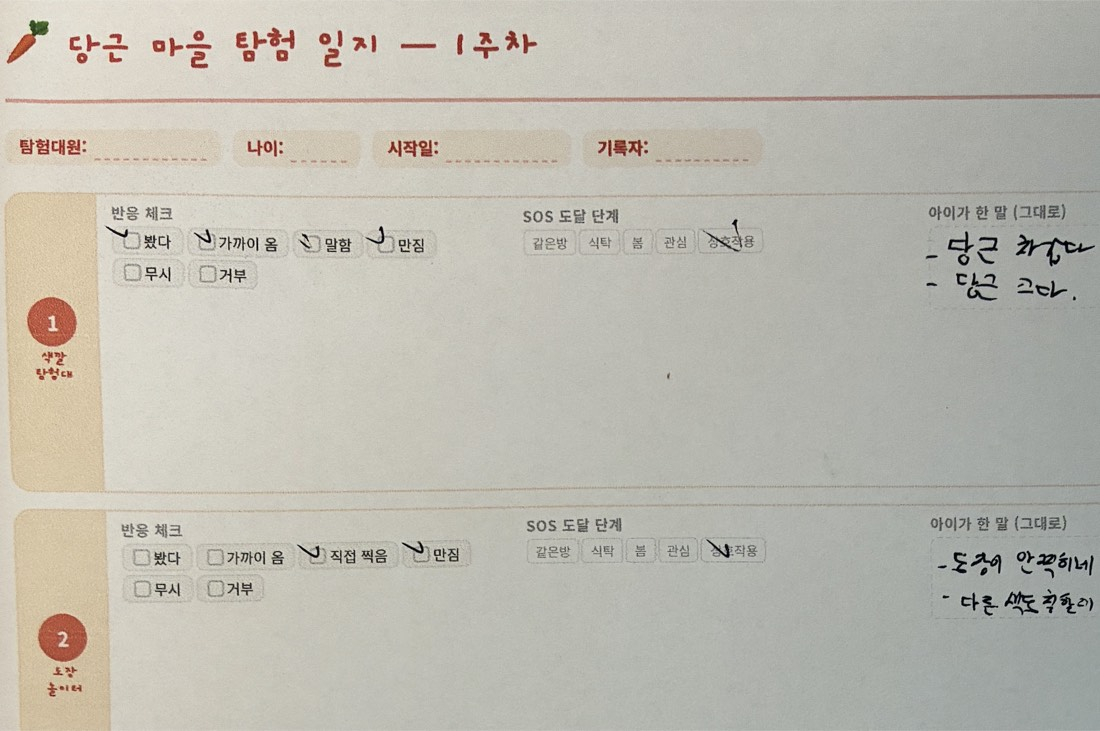
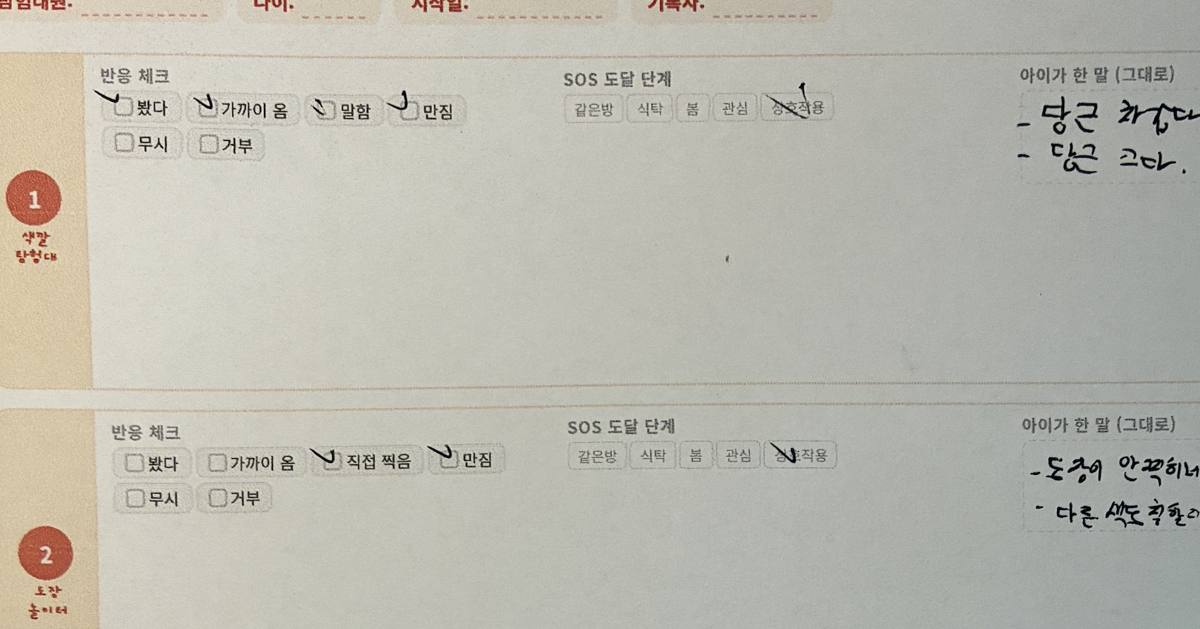
투자: 시드 피치덱 — 슬라이드3 레이아웃/4 출처/6 사진 조정
- 슬라이드3: 문제 스샷 왼쪽 크게(상단부터), 텍스트 우측
- 슬라이드4: 미신 카드에 'QR 퀴즈 평균 50점 이유' + '네이버 300만 카페 발췌' 출처
- 슬라이드6: 2·3 사진 스왑, 감각놀이 하단(당근) 노출, 기록지 여백 크롭+contain으로 손글씨까지 표시

diff --git a/pitch-seed.html b/pitch-seed.html
@@ -113,18 +113,16 @@
   </div></div></section>
 
   <!-- 3 정답률(퀴즈) -->
-  <section class="slide"><div class="frame"><div class="pad">
-    <div class="label">Quiz</div>
-    <h2>정답률 10% 문제</h2>
-    <div style="display:flex;gap:5cqw;margin-top:1.6cqw;align-items:center">
-      <div style="flex:1">
-        <div class="big" style="font-size:2.9cqw;line-height:1.5">이 문제의 정답은<br>몇 번일까요?</div>
-        <div style="margin-top:2.6cqw;display:flex;align-items:center;gap:1.6cqw">
-          <img src="pitch-img/qr.png" style="width:9cqw;height:9cqw;border-radius:8px">
-          <div style="font-size:1.9cqw;font-weight:700;color:var(--navy)">정답은 <b style="color:var(--orange-d)">QR</b>에서<br>확인 가능합니다</div>
-        </div>
+  <section class="slide"><div class="frame"><div class="pad" style="flex-direction:row;align-items:center;gap:5cqw;padding:3.4cqw 6cqw">
+    <img class="photo" src="pitch-img/quiz.jpg" style="height:47cqw;width:auto;max-width:32cqw;object-fit:contain;background:#fff;flex:0 0 auto">
+    <div style="flex:1">
+      <div class="label">Quiz</div>
+      <h2>정답률 10% 문제</h2>
+      <div class="big" style="font-size:3.1cqw;line-height:1.5;margin-top:2.4cqw">이 문제의 정답은<br>몇 번일까요?</div>
+      <div style="margin-top:3cqw;display:flex;align-items:center;gap:1.6cqw">
+        <img src="pitch-img/qr.png" style="width:10cqw;height:10cqw;border-radius:8px">
+        <div style="font-size:2.05cqw;font-weight:700;color:var(--navy)">정답은 <b style="color:var(--orange-d)">QR</b>에서<br>확인 가능합니다</div>
       </div>
-      <img class="photo" src="pitch-img/quiz.jpg" style="width:27cqw;height:40cqw;object-fit:contain;background:#fff">
     </div>
     <div class="bm">밀프레드</div><div class="pg">03</div>
   </div></div></section>
@@ -135,7 +133,7 @@
     <h2>편식을 풀기 어려운 이유</h2>
     <div style="display:flex;gap:2.4cqw;margin-top:1cqw">
       <div style="flex:1.15">
-        <div class="card" style="margin-bottom:1.4cqw"><div class="ct">① 잘못된 미신</div><p>맘카페에 퍼진 '몰래 갈아 먹이기', '한 입만 더' 같은 역효과 방법이 지식처럼 통용됩니다.</p></div>
+        <div class="card" style="margin-bottom:1.4cqw"><div class="ct">① 잘못된 미신</div><p>맘카페에 퍼진 '몰래 갈아 먹이기', '한 입만 더' 같은 역효과 방법이 지식처럼 통용됩니다. <b style="color:var(--orange-d)">앞의 QR 퀴즈 평균 점수가 50점인 이유</b>입니다.</p></div>
         <div class="card"><div class="ct">② 개인화 처방의 부재</div><p>아이마다 감각·기질·식사 환경이 달라 <b style="color:var(--orange-d)">아이별 맞춤 처방</b>이 필요합니다. 일반론으론 안 풀립니다.</p></div>
       </div>
       <div style="flex:1;background:#f6f8fb;border-radius:12px;padding:1.8cqw 2cqw">
@@ -143,6 +141,7 @@
         <div style="font-size:1.8cqw;font-weight:800;color:var(--navy);line-height:1.32;margin-bottom:1.1cqw">"24개월인데.. 진짜 너무 반찬을 안 먹어요 ㅠㅠ"</div>
         <div class="qcard" style="background:#fff"><div class="qn">👤 다른 부모의 답</div><div class="qt" style="font-weight:600;font-size:1.7cqw">"솥밥하세요! 섞여 있으니 어찌어찌 먹더라고요 — 냉털하는 느낌으로"</div></div>
         <div style="font-size:1.45cqw;color:var(--orange-d);font-weight:800;margin-top:.7cqw">→ '몰래 섞어 먹이기' = 대표적 역효과 미신</div>
+        <div style="font-size:1.2cqw;color:var(--muted);margin-top:.6cqw">네이버 300만명 카페 글에서 발췌</div>
       </div>
     </div>
     <div class="bm">밀프레드</div><div class="pg">04</div>
@@ -175,9 +174,9 @@
       <div class="card" style="padding:1.5cqw 1.6cqw"><div class="ct" style="font-size:1.6cqw;margin-bottom:.4cqw">③ 놀이교육</div><p style="font-size:1.35cqw">감각놀이 → 직접 요리로 <b>'내가 만든 음식'</b>을 스스로 먹는 이케아 효과.</p></div>
     </div>
     <div style="display:flex;gap:1.5cqw;margin-top:1.6cqw">
-      <figure style="flex:1"><img class="photo" src="pitch-img/play-color.jpg" style="width:100%;height:22cqw;object-position:center 35%"><figcaption style="font-size:1.3cqw;color:var(--muted);margin-top:.6cqw;text-align:center">감각놀이 (색깔 탐험)</figcaption></figure>
+      <figure style="flex:1"><img class="photo" src="pitch-img/play-color.jpg" style="width:100%;height:22cqw;object-position:center 88%"><figcaption style="font-size:1.3cqw;color:var(--muted);margin-top:.6cqw;text-align:center">감각놀이 (색깔 탐험)</figcaption></figure>
+      <figure style="flex:1"><img class="photo" src="pitch-img/log.jpg" style="width:100%;height:22cqw;object-fit:contain;background:#fff;padding:.4cqw"><figcaption style="font-size:1.3cqw;color:var(--muted);margin-top:.6cqw;text-align:center">부모 기록지 → AI 입력</figcaption></figure>
       <figure style="flex:1"><img class="photo" src="pitch-img/play-cut.jpg" style="width:100%;height:22cqw;object-position:center 40%"><figcaption style="font-size:1.3cqw;color:var(--muted);margin-top:.6cqw;text-align:center">놀이로 만나는 채소</figcaption></figure>
-      <figure style="flex:1"><img class="photo" src="pitch-img/log.jpg" style="width:100%;height:22cqw;object-position:center 30%"><figcaption style="font-size:1.3cqw;color:var(--muted);margin-top:.6cqw;text-align:center">부모 기록지 → AI 입력</figcaption></figure>
     </div>
     <div class="bm">밀프레드</div><div class="pg">06</div>
   </div></div></section>
